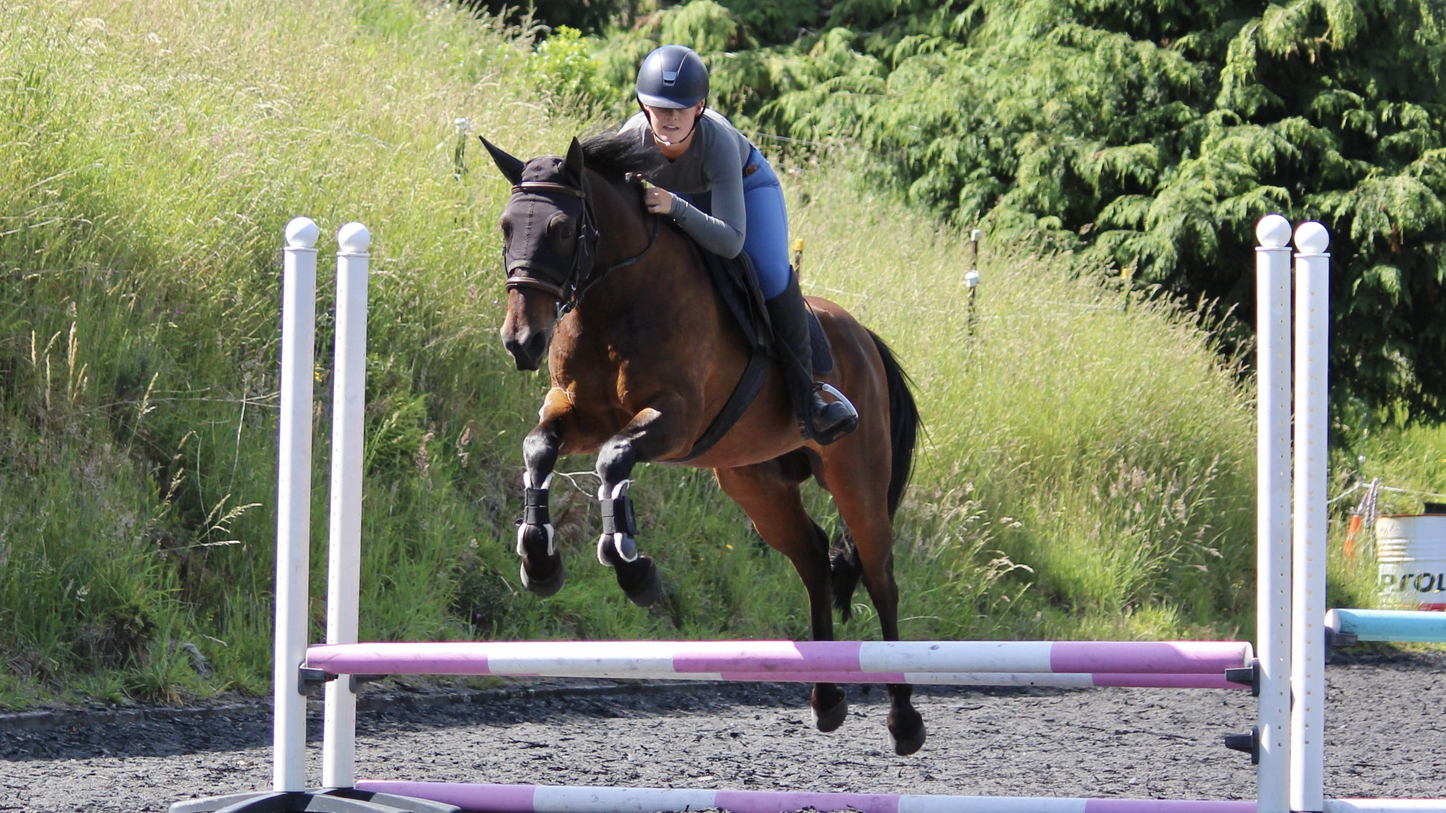
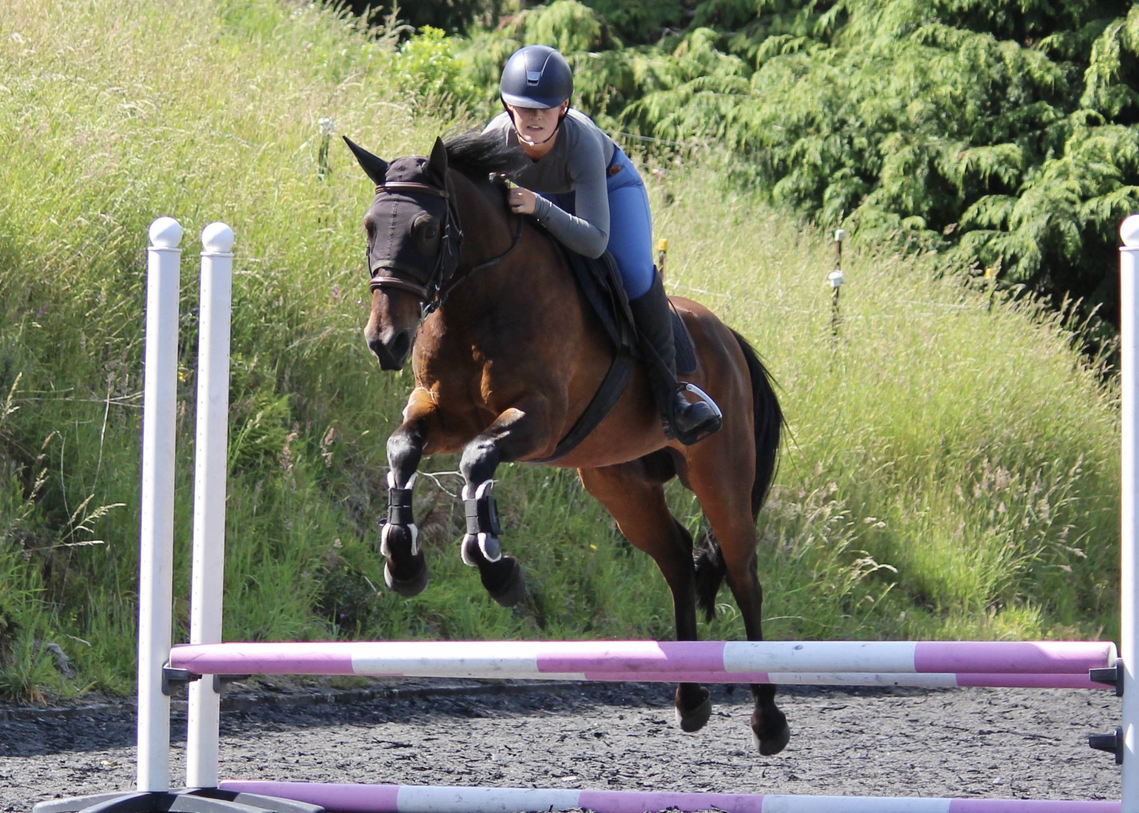
commit

diff --git a/index.html b/index.html
@@ -244,7 +244,7 @@
             <div class="image-grid">
                 <!-- Image with Pricing Panel -->
                 <div class="image-item">
-                    <img class="loaded" src="./assets/banner.JPG" alt="Portfolio Project 1">
+                    <img class="loaded" src="./assets/lesson.JPG" alt="Portfolio Project 1">
                     <div class="pricing-panel">
                         <p>$65 Lesson/Coaching</p>
                     </div>
